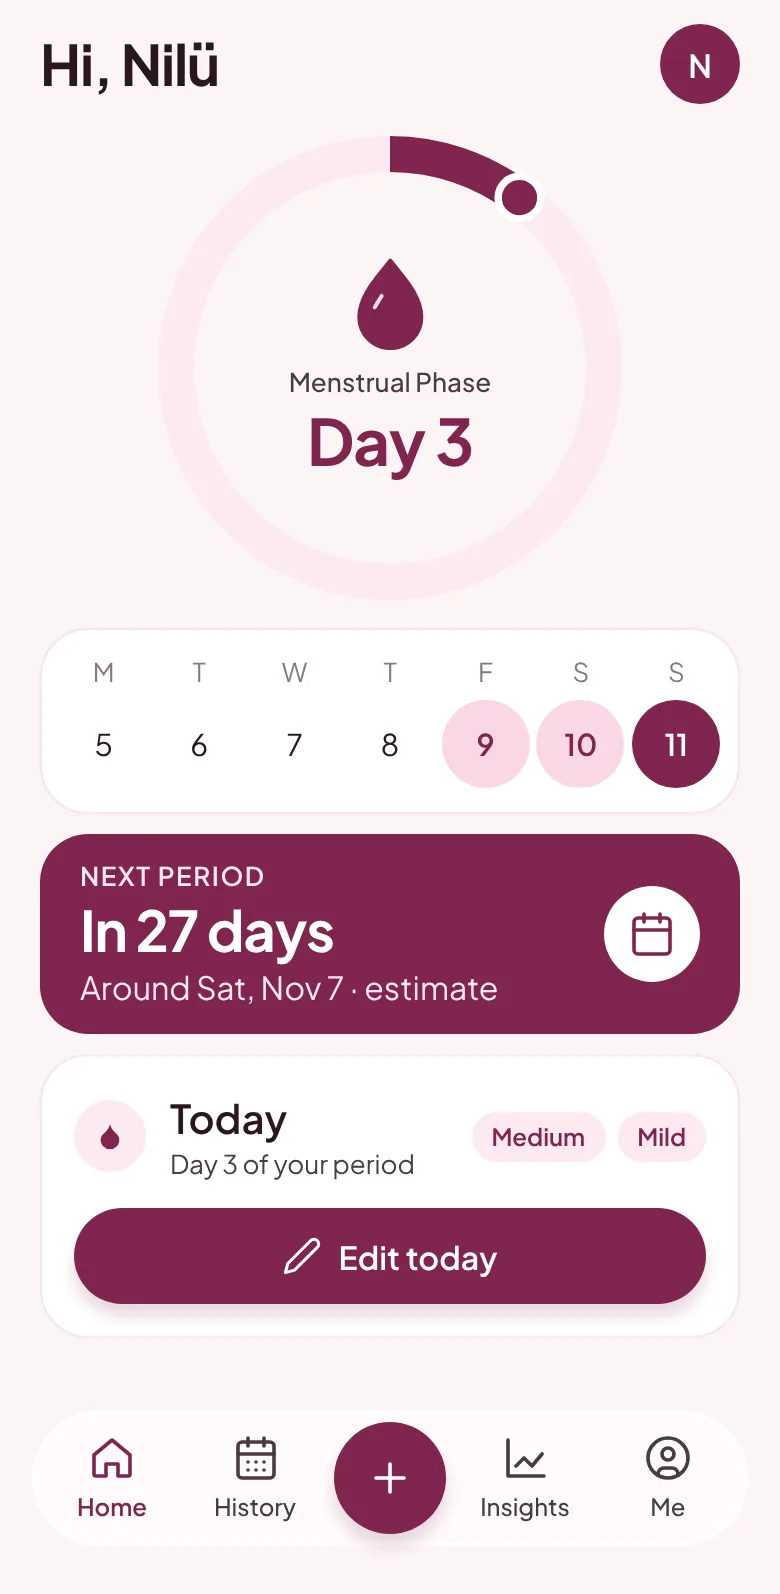
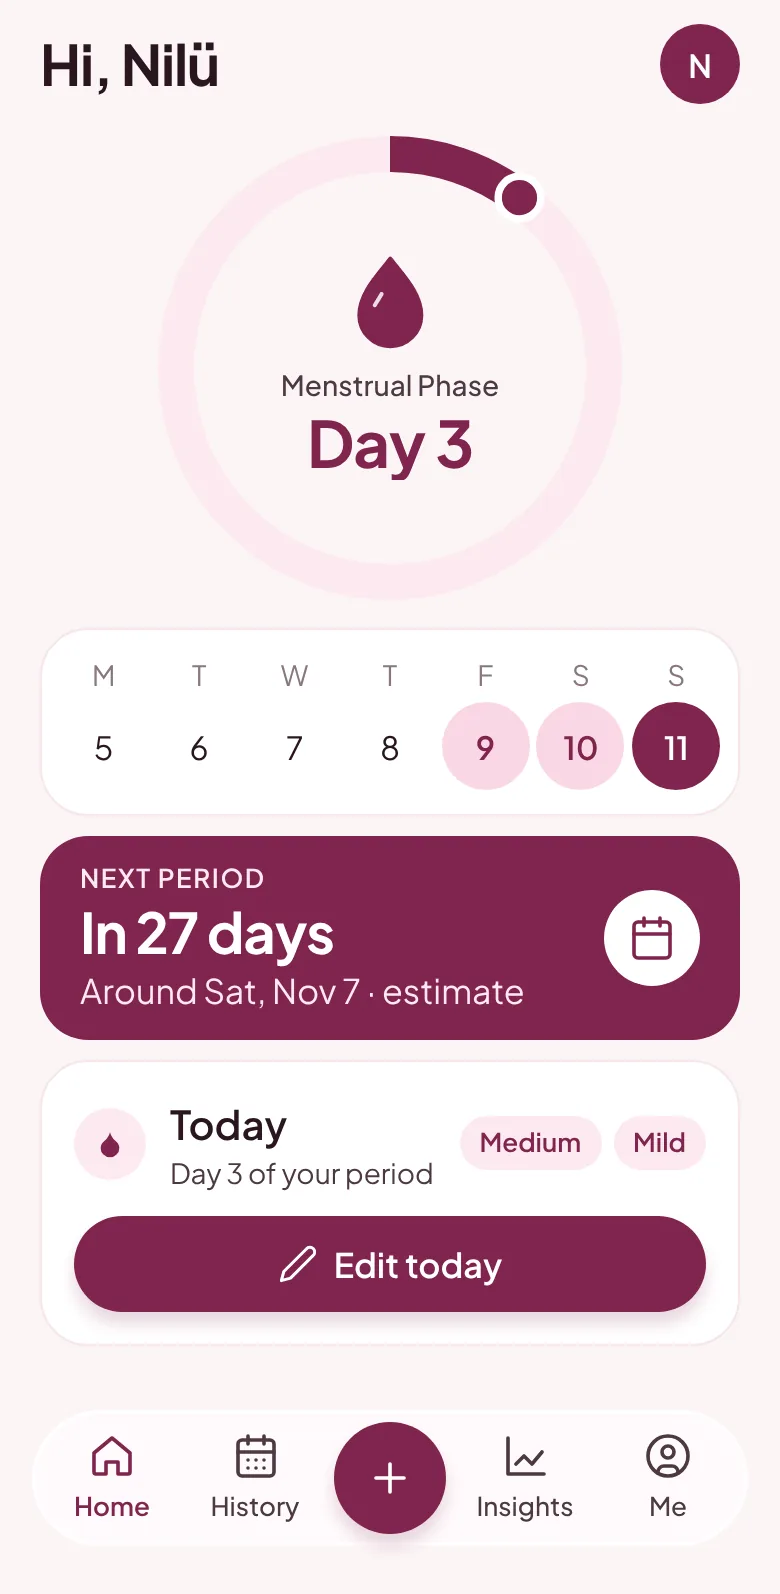
Refresh the app screens with the phase 1 changes
Re-captured Home, History, Insights and Daily log (TR and EN) from the
current app: the new icons, the History day card with chips, the Insights
"Your cycles" chart and renamed tiles, the Energy row in the daily log.
Same 390x797 pt at 2x as before. Image URLs move to ?v=4 so cached
copies are replaced.

Claude-Session: https://claude.ai/code/session_01DWRC4FDieGgLbweE5TeUvB

diff --git a/index.html b/index.html
@@ -393,7 +393,7 @@
     document.querySelectorAll('[data-i18n]').forEach((el) => { el.innerHTML = c[el.dataset.i18n]; });
     document.querySelectorAll('.lang button').forEach((b) => b.setAttribute('aria-pressed', String(b.dataset.lang === lang)));
     screen.innerHTML = SCREENS.map((s, n) =>
-      `<img src="assets/screens/${lang}-${s}.webp?v=3" alt="${c.screens[n]}" ${n === 0 ? '' : 'loading="lazy"'} decoding="async">`).join('');
+      `<img src="assets/screens/${lang}-${s}.webp?v=4" alt="${c.screens[n]}" ${n === 0 ? '' : 'loading="lazy"'} decoding="async">`).join('');
     dots.innerHTML = SCREENS.map((s, n) => `<button type="button" id="dot-${s}" aria-label="${c.screens[n]}"></button>`).join('');
     dots.querySelectorAll('button').forEach((b, n) => b.addEventListener('click', () => { show(n); restart(); }));
     show(current);
